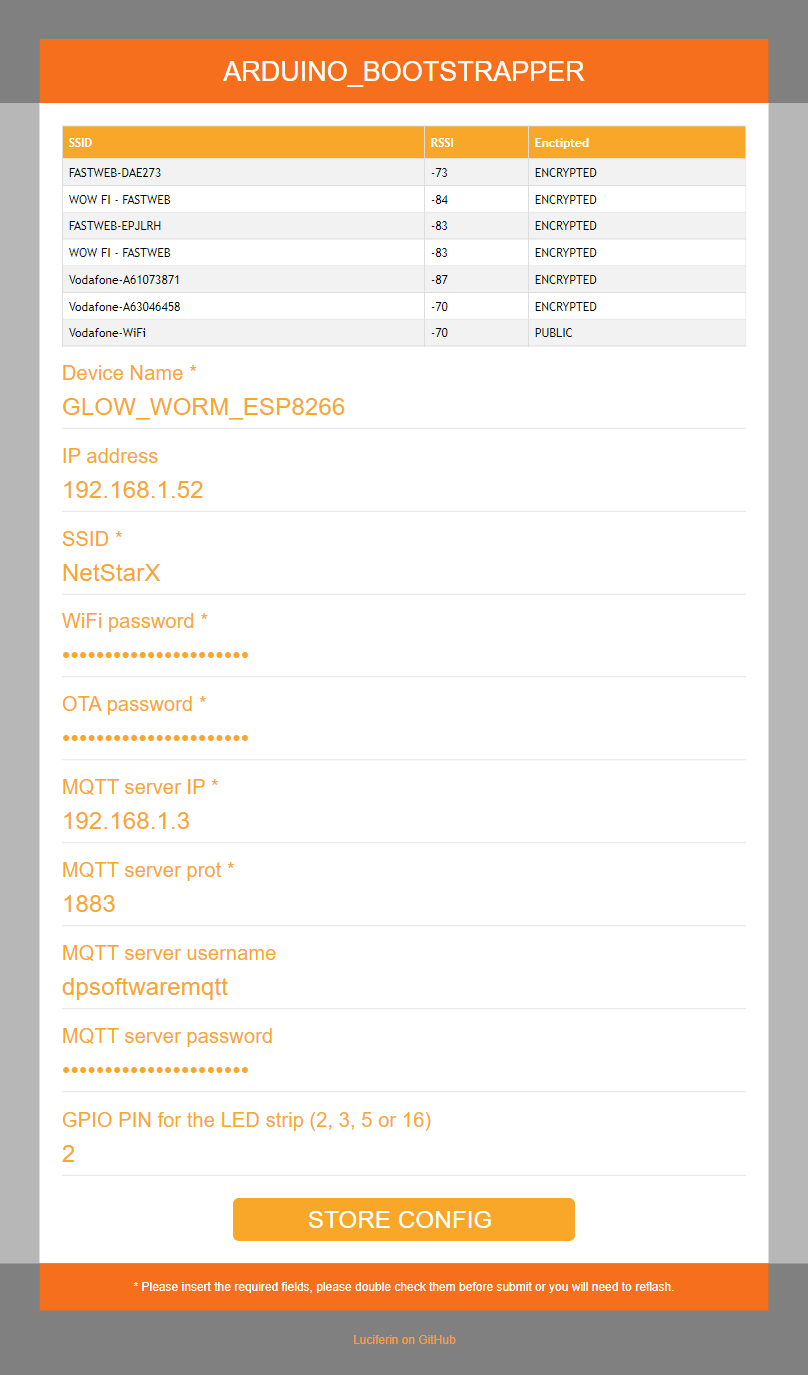
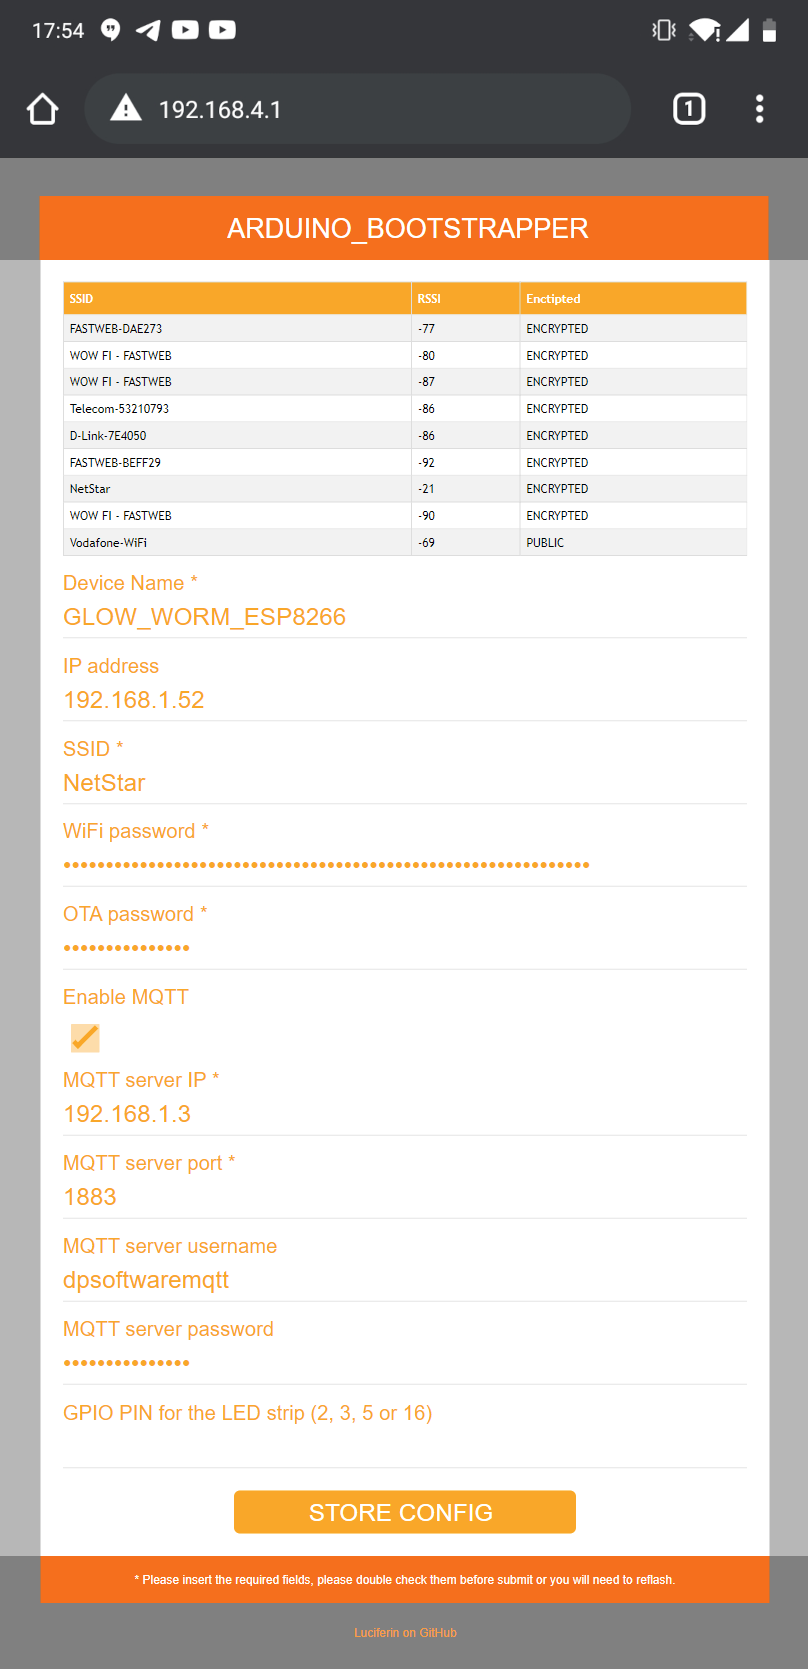
Arduino Bootstrapper (v1.11.2)

Changed region(s): [[0.0, 0.0, 1.0, 1.0], [0.495, 0.3055, 0.5569, 0.336]]

diff --git a/src/WifiManager.cpp b/src/WifiManager.cpp
@@ -96,6 +96,7 @@ void WifiManager::setupWiFi(void (*manageDisconnections)(), void (*manageHardwar
   }
   WiFi.onStationModeDisconnected([](const WiFiEventStationModeDisconnected &event) {
       Serial.println(F("WiFi connection is lost."));
+      WiFi.reconnect();
   });
 #elif defined(ESP32)
   WiFi.setHostname(helper.string2char(deviceName));
@@ -364,11 +365,11 @@ void WifiManager::createWebServer() {
                   "            content: '';\n"
                   "            display: inline-block;\n"
                   "            position: absolute;\n"
-                  "            top: 2vw;\n"
-                  "            left: 0px;\n"
-                  "            box-sizing: border-box;\n"
-                  "            height: 1vw;\n"
-                  "            width: 3.5vw;\n"
+                  "            top: 0.6vw;"
+                  "            left: -0.1vw;"
+                  "            box-sizing: border-box;"
+                  "            height: 2.5vw;"
+                  "            width: 4.5vw;"
                   "            border-left: 0.6vw solid orange;\n"
                   "            border-bottom: 0.6vw solid orange;\n"
                   "            -webkit-transform: translateY(-1.5px) rotate(-45deg);\n"
@@ -398,7 +399,7 @@ void WifiManager::createWebServer() {
                   "        <label for='ssid'>SSID *</label><input type='text' id='ssid' name='ssid' required>"
                   "        <label for='pass'>WiFi password *</label><input type='password' id='pass' name='pass' required><span class='line'></span>\n"
                   "        <label for='OTApass'>OTA password *</label><input type='password' id='OTApass' name='OTApass' required><span class='line'></span>\n"
-                  "        <input type='checkbox' id='mqttCheckbox' name='mqttCheckbox' checked>"
+                  "        <label for='mqttCheckbox'>Enable MQTT</label><input type='checkbox' id='mqttCheckbox' name='mqttCheckbox' checked>"
               "            <div id='mqttclass'><label id='labelMqttIp' for='mqttIP'>MQTT server IP *</label><input id='inputMqttIp' type='text' id='mqttIP' name='mqttIP' required><span class='line'></span>\n"
                   "        <label for='mqttPort'>MQTT server port *</label><input type='text' id='mqttPort' name='mqttPort' required><span class='line'></span>\n"
                   "        <label for='mqttuser'>MQTT server username</label><input type='text' id='mqttuser' name='mqttuser'><span class='line'></span>\n"
@@ -418,12 +419,16 @@ void WifiManager::createWebServer() {
                   "    cb.onclick = () => {\n"
                   "        if (cb.checked) {\n"
                   "            x.style.display = 'block';\n"
-                  "            document.getElementById('inputMqttIp').addAttribute('required')\n"
-                  "            document.getElementById('mqttPort').addAttribute('required')\n"
+                  "            document.getElementById('inputMqttIp').setAttribute('required','')\n"
+                  "            document.getElementById('mqttPort').setAttribute('required','')\n"
                   "        } else {\n"
                   "            x.style.display = 'none';\n"
                   "            document.getElementById('inputMqttIp').removeAttribute('required')\n"
                   "            document.getElementById('mqttPort').removeAttribute('required')\n"
+                  "            document.getElementById(\"mqttPort\").value = \"\";"
+                  "            document.getElementById(\"mqttuser\").value = \"\";"
+                  "            document.getElementById(\"mqttpass\").value = \"\";"
+                  "            document.getElementById(\"inputMqttIp\").value = \"\";"
                   "        }\n"
                   "    };"
                   "</script></html>";
